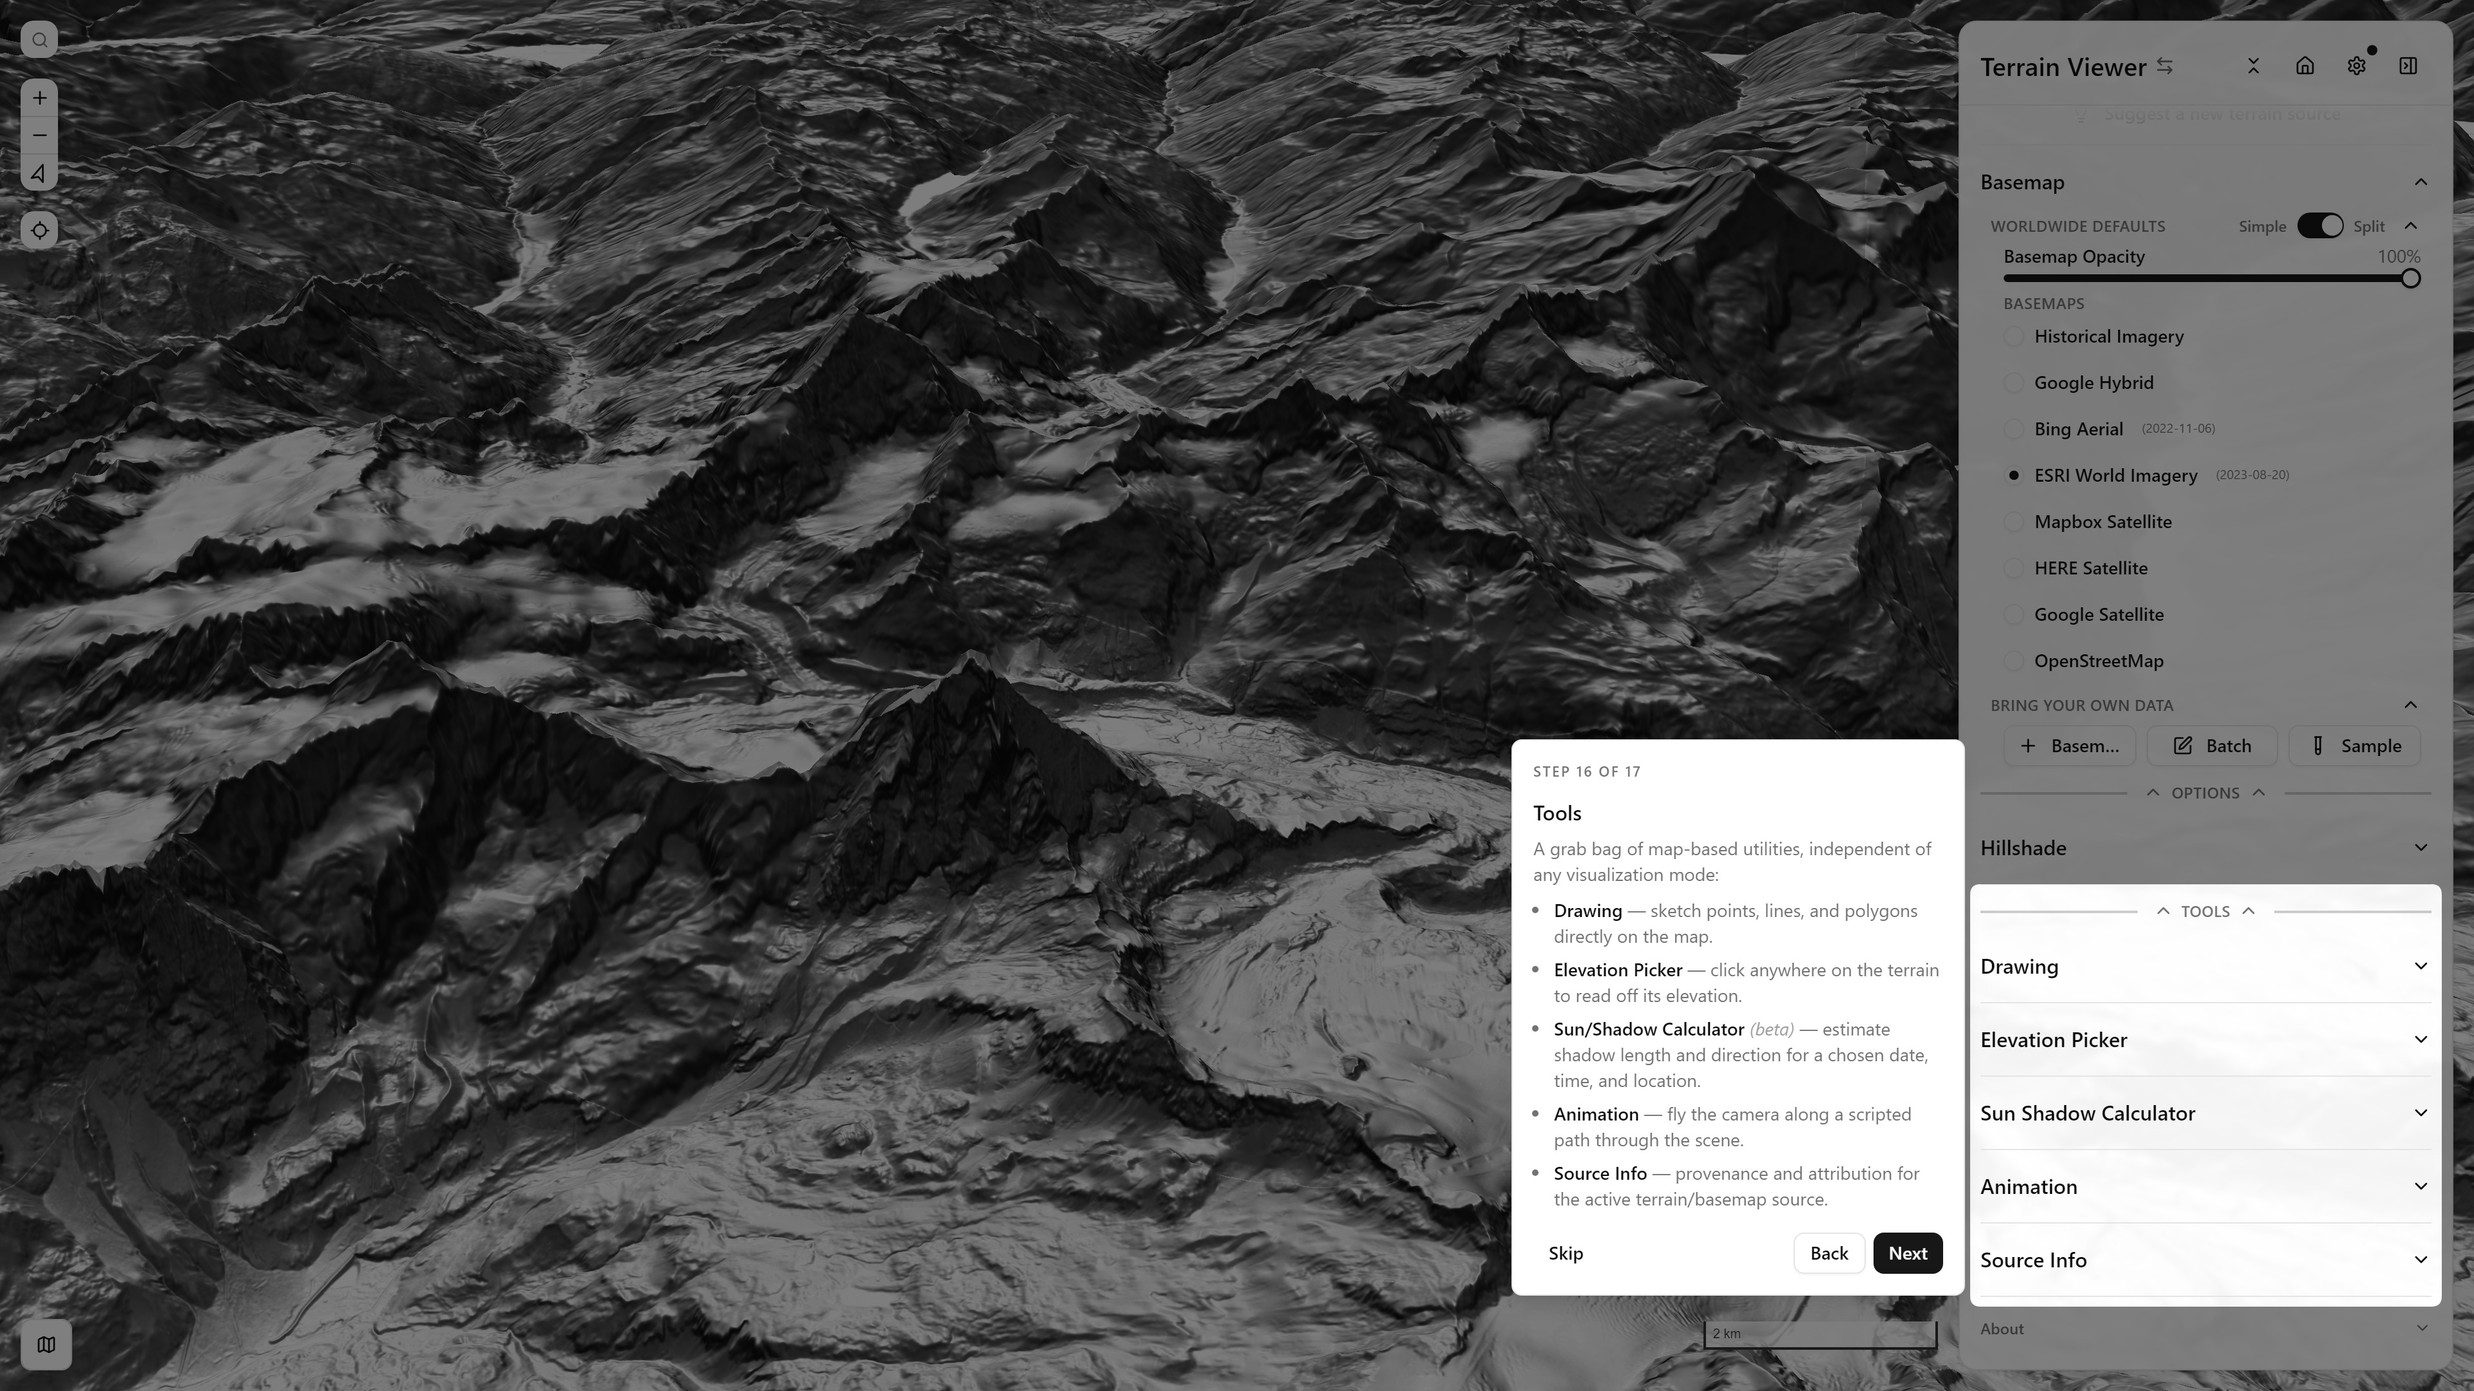
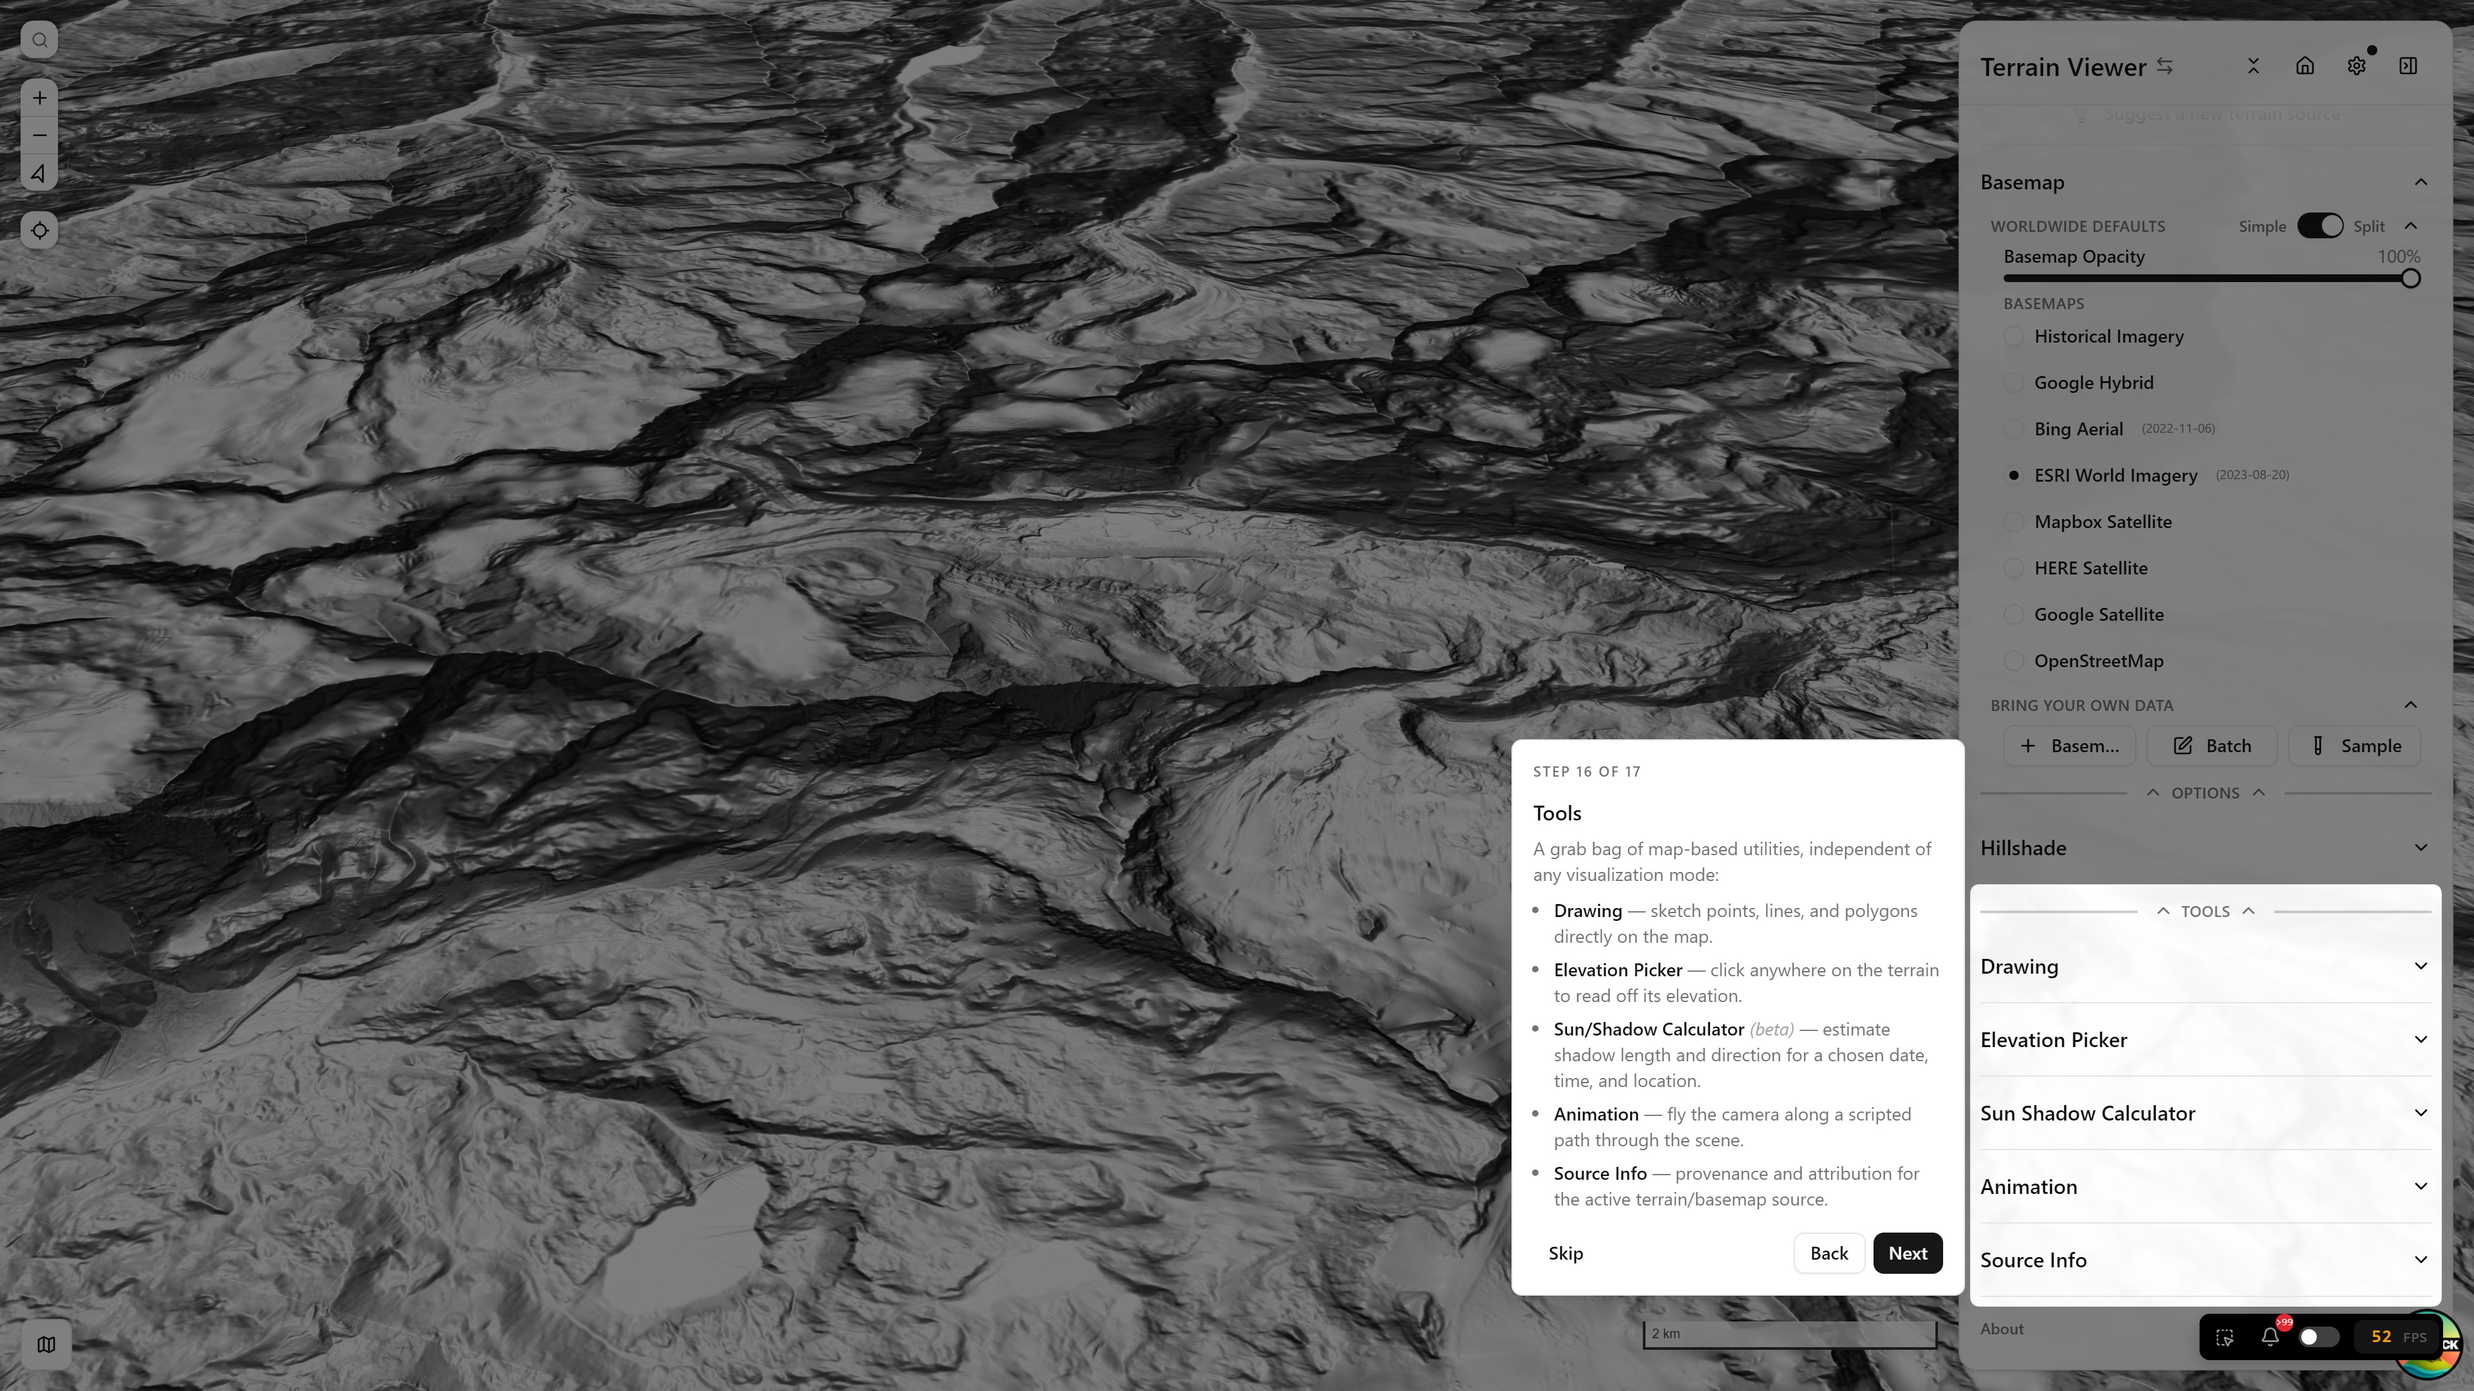
Docs: Gallery hero+filmstrip redesign, tour step reorder, screenshot fixes
- Gallery: replace grid-of-cards with a hero image + filmstrip below it,
  click-delegating to the filmstrip's own first thumbnail so the lightbox
  sees one entry per image instead of two. Fixes inconsistent label-wrapping
  breaking row alignment on the walkthrough/split-modes/lrm pages.
- Coachmark tour: reorder Terrain Tools steps so Hillshade -> Hypso ->
  Terrain Analysis -> Relief Viz -> Terrain Sources -> Basemap -> BYOD,
  grouping the "on-map visualization" steps before the "data source" steps.
  Add a one-shot ?startTour=true URL param to launch the tour directly.
- Open in Google Earth Web: fix the 2D+Historical data blob and add a
  separate 3D-no-Historical destination, using confirmed real URLs.
- Recapture the walkthrough screenshot set against the new step order and
  local dev server; fix several screenshots that were only partially
  rendered because Playwright's click action was racing the viz-mode
  protocol's tile re-render (worked around with a post-click nudge/settle
  wait) and because Playwright's click stability pre-check was retrying
  and double-firing clicks (fixed by passing noWaitAfter on the coachmark's
  Next button).
- Swap in hand-captured Hillshade/SVF/Split-Overlay screenshots, redo the
  4x2 historical grid with source+date pills and the Normal 100% blend
  screenshot with full tile loading.

diff --git a/docs/src/components/gallery.tsx b/docs/src/components/gallery.tsx
@@ -1,72 +1,79 @@
+'use client';
+
+import type { MouseEvent } from 'react';
+
 export interface GalleryItem {
-  /** Short label shown above the thumbnail, and used as the lightbox title. */
+  /** Short label — used as the lightbox title (and as the filmstrip
+   *  thumbnail's tooltip), not rendered as visible on-page text (that's
+   *  what made the old grid layout's row heights fight each other: some
+   *  labels wrapped to two lines, some didn't, so cards in the same row
+   *  stopped lining up). */
   title: string;
   image: string;
   alt: string;
-  /** Live app URL reproducing this exact screenshot's state — when present,
-   *  the title becomes a link (grid) / the lightbox title becomes clickable. */
+  /** Live app URL reproducing this exact screenshot's state — becomes the
+   *  lightbox title's link when present. */
   href?: string;
 }
 
 export interface GalleryGroup {
-  /** Optional section heading above this group's row — omit for a single
-   *  ungrouped grid. */
+  /** Optional section heading above this group's hero+filmstrip — omit for
+   *  a single ungrouped gallery. */
   category?: string;
   items: GalleryItem[];
 }
 
-/** Compact thumbnail grid, click-to-lightbox via the page's shared
- *  LightboxProvider (see lightbox.tsx) — fumadocs ships no gallery/carousel
- *  primitive of its own, so this is the reusable stand-in: a flat grid
- *  instead of a long vertical run of individual markdown images, for any
- *  page with more than a handful of screenshots (Walkthrough, blend-mode
- *  comparisons, LRM radius variants, …). */
-export function Gallery({
-  groups,
-  cols = 4,
-}: {
-  groups: GalleryGroup[];
-  cols?: 2 | 3 | 4;
-}) {
-  const colsClass = cols === 2 ? 'sm:grid-cols-2' : cols === 3 ? 'sm:grid-cols-3' : 'sm:grid-cols-4';
+/** Large first-image "hero" + a filmstrip of every image in the group below
+ *  it, click-to-lightbox (looping left/right through the whole group) via
+ *  the shared LightboxProvider — fumadocs ships no gallery/carousel
+ *  primitive of its own. The hero delegates its click to the filmstrip's
+ *  own first thumbnail (a real click, not a second data-lightbox element)
+ *  so the lightbox's item list has exactly one entry per image, not two. */
+export function Gallery({ groups }: { groups: GalleryGroup[] }) {
+  const openFirst = (e: MouseEvent<HTMLImageElement>) => {
+    const filmstrip = e.currentTarget.parentElement?.querySelector<HTMLElement>('[data-lightbox]');
+    filmstrip?.click();
+  };
+
   return (
     <div className="not-prose flex flex-col gap-8">
-      {groups.map((group, gi) => (
-        <div key={group.category ?? gi} className="flex flex-col gap-3">
-          {group.category && (
-            <h3 className="text-sm font-semibold uppercase tracking-wide text-fd-muted-foreground">
-              {group.category}
-            </h3>
-          )}
-          <div className={`grid grid-cols-2 gap-4 ${colsClass}`}>
-            {group.items.map((item) => (
-              <div key={item.title} className="flex flex-col gap-2">
-                {item.href ? (
-                  <a
-                    href={item.href}
-                    target="_blank"
-                    rel="noopener noreferrer"
-                    className="text-sm font-medium text-fd-primary hover:underline"
-                  >
-                    {item.title} ↗
-                  </a>
-                ) : (
-                  <div className="text-sm font-medium">{item.title}</div>
-                )}
-                {/* eslint-disable-next-line @next/next/no-img-element */}
-                <img
-                  src={item.image}
-                  alt={item.alt}
-                  data-lightbox=""
-                  data-lightbox-title={item.title}
-                  data-lightbox-href={item.href}
-                  className="aspect-video w-full cursor-zoom-in rounded-lg border object-cover transition-opacity hover:opacity-90"
-                />
+      {groups.map((group, gi) => {
+        const [first, ...rest] = group.items;
+        if (!first) return null;
+        return (
+          <div key={group.category ?? gi} className="flex flex-col gap-3">
+            {group.category && (
+              <h3 className="text-sm font-semibold uppercase tracking-wide text-fd-muted-foreground">
+                {group.category}
+              </h3>
+            )}
+            <div className="flex flex-col gap-2">
+              {/* eslint-disable-next-line @next/next/no-img-element */}
+              <img
+                src={first.image}
+                alt={first.alt}
+                onClick={openFirst}
+                className="aspect-video w-full cursor-zoom-in rounded-lg border object-cover transition-opacity hover:opacity-90"
+              />
+              <div className="flex gap-2 overflow-x-auto pb-1">
+                {group.items.map((item) => (
+                  // eslint-disable-next-line @next/next/no-img-element
+                  <img
+                    key={item.title}
+                    src={item.image}
+                    alt={item.alt}
+                    title={item.title}
+                    data-lightbox=""
+                    data-lightbox-title={item.title}
+                    data-lightbox-href={item.href}
+                    className="aspect-video w-24 shrink-0 cursor-zoom-in rounded border object-cover transition-opacity hover:opacity-90 sm:w-32"
+                  />
+                ))}
               </div>
-            ))}
+            </div>
           </div>
-        </div>
-      ))}
+        );
+      })}
     </div>
   );
 }

diff --git a/components/TerrainControlPanel/product-tour.tsx b/components/TerrainControlPanel/product-tour.tsx
@@ -374,6 +374,32 @@ const TERRAIN_STEPS: TourStepDef[] = [
     onEnter: prepareHillshadeOnly,
   },
   {
+    key: "hypso-section", domId: "tour-hypso-section", side: "left", align: "start",
+    title: "Color by Elevation (Hypsometric)",
+    description: "Elevation Hypso paints terrain by altitude. Choose from dozens of curated color ramps (Classic, CET, cpt-city, and more) or build a custom one, and check Min/Max below to set a custom elevation range yourself — drag the slider, type exact values, or click the mountain-snow icon to auto-set it from the DEM tiles currently loaded in your viewport.",
+    onEnter: prepareHypsoOnly,
+  },
+  {
+    key: "terrain-analysis-section", domId: "tour-terrain-analysis-section", side: "left", align: "start",
+    title: "Terrain Analysis",
+    description: "Surface derivatives (Slope, Aspect, Curvature), neighborhood statistics (TPI, TRI, Roughness, and more), and Principal Components (Blobness, Eigenvalue Ratio, etc). Each sub-mode has its own checkbox, and checking one reveals its own color ramp and range options directly beneath it. Slope is switched on here as an example.",
+    onEnter: prepareTerrainAnalysisOnly,
+  },
+  {
+    key: "relief-visualization-section", domId: "tour-relief-visualization-section", side: "left", align: "start",
+    title: "Relief Visualization",
+    description: (
+      <>
+        <p className="pb-2">Multi-scale relief and visibility modes:</p>
+        <ul className="list-disc pl-4 space-y-1.5">
+          <li><span className="font-semibold text-foreground">Local Relief Model</span>: relative elevation to neighborhood, computed by subtracting the lower-resolution terrain altitude interpolation.</li>
+          <li><span className="font-semibold text-foreground">Sky View Factor, Openness, and Local Dominance</span>: heavier computations that reveal subtle terrain structure standard hillshading misses. Sky View Factor and the others are ray-marched and noticeably slower but beautiful, worth trying once you're exploring your own data.</li>
+        </ul>
+      </>
+    ),
+    onEnter: prepareReliefVisualizationOnly,
+  },
+  {
     key: "terrain-section", domId: "tour-terrain-section", side: "left", align: "start",
     title: "Terrain Sources",
     description: "Picks the elevation (DEM) data itself — distinct from the raster Basemap imagery next.",
@@ -416,32 +442,6 @@ const TERRAIN_STEPS: TourStepDef[] = [
         <li><span className="font-semibold text-foreground">Side</span>: two panes side by side — compare 2+ terrain or basemap sources directly against each other.</li>
       </ul>
     ),
-  },
-  {
-    key: "hypso-section", domId: "tour-hypso-section", side: "left", align: "start",
-    title: "Color by Elevation (Hypsometric)",
-    description: "Elevation Hypso paints terrain by altitude. Choose from dozens of curated color ramps (Classic, CET, cpt-city, and more) or build a custom one, and check Min/Max below to set a custom elevation range yourself — drag the slider, type exact values, or click the mountain-snow icon to auto-set it from the DEM tiles currently loaded in your viewport.",
-    onEnter: prepareHypsoOnly,
-  },
-  {
-    key: "terrain-analysis-section", domId: "tour-terrain-analysis-section", side: "left", align: "start",
-    title: "Terrain Analysis",
-    description: "Surface derivatives (Slope, Aspect, Curvature), neighborhood statistics (TPI, TRI, Roughness, and more), and Principal Components (Blobness, Eigenvalue Ratio, etc). Each sub-mode has its own checkbox, and checking one reveals its own color ramp and range options directly beneath it. Slope is switched on here as an example.",
-    onEnter: prepareTerrainAnalysisOnly,
-  },
-  {
-    key: "relief-visualization-section", domId: "tour-relief-visualization-section", side: "left", align: "start",
-    title: "Relief Visualization",
-    description: (
-      <>
-        <p className="pb-2">Multi-scale relief and visibility modes:</p>
-        <ul className="list-disc pl-4 space-y-1.5">
-          <li><span className="font-semibold text-foreground">Local Relief Model</span>: relative elevation to neighborhood, computed by subtracting the lower-resolution terrain altitude interpolation.</li>
-          <li><span className="font-semibold text-foreground">Sky View Factor, Openness, and Local Dominance</span>: heavier computations that reveal subtle terrain structure standard hillshading misses. Sky View Factor and the others are ray-marched and noticeably slower but beautiful, worth trying once you're exploring your own data.</li>
-        </ul>
-      </>
-    ),
-    onEnter: prepareReliefVisualizationOnly,
   },
   {
     key: "terrain-tools", domId: "tour-tools-group", side: "left", align: "start",

diff --git a/components/TerrainControlPanel/open-in-links.tsx b/components/TerrainControlPanel/open-in-links.tsx
@@ -50,10 +50,25 @@ type OpenInDestination = {
 export const OPEN_IN_DESTINATIONS: OpenInDestination[] = [
   {
     id: "google-earth-web",
-    label: "Google Earth Web",
+    label: "Google Earth Web (2D, Historical)",
+    // The `data=` payload is opaque protobuf, reverse-engineered from a
+    // real Google Earth Web session rather than derived — captured
+    // directly off a live "2D + Historical layer on" URL, tilt (`t`) fixed
+    // at 0 for the top-down 2D framing.
     buildUrl: ({ lat, lng, zoom }) => {
       const altitude = ((38000 * 4096) / Math.pow(2, zoom)) * Math.cos((lat * Math.PI) / 180)
-      return `https://earth.google.com/web/@${lat},${lng},0a,${altitude}d,35y,0h,0t,0r/data=CgwqBggBEgAYAUICCAE6AwoBMEoNCP___________wEQAA`
+      return `https://earth.google.com/web/@${lat},${lng},0a,${altitude}d,35y,0h,0t,0r/data=CgwqBggBEgAYAUICCAE6AwoBMEICCABKDQj___________8BEAA`
+    },
+  },
+  {
+    id: "google-earth-web-3d",
+    label: "Google Earth Web (3D, no Historical)",
+    // Same altitude formula as the 2D destination above; a different
+    // (shorter) `data=` payload — the Historical-layer flag isn't set in
+    // this one — and tilt (`t`) fixed at 60 for a 3D-oblique framing.
+    buildUrl: ({ lat, lng, zoom }) => {
+      const altitude = ((38000 * 4096) / Math.pow(2, zoom)) * Math.cos((lat * Math.PI) / 180)
+      return `https://earth.google.com/web/@${lat},${lng},0a,${altitude}d,35y,0h,60t,0r/data=CgRCAggBOgMKATBCAggASg0I____________ARAA`
     },
   },
   {
